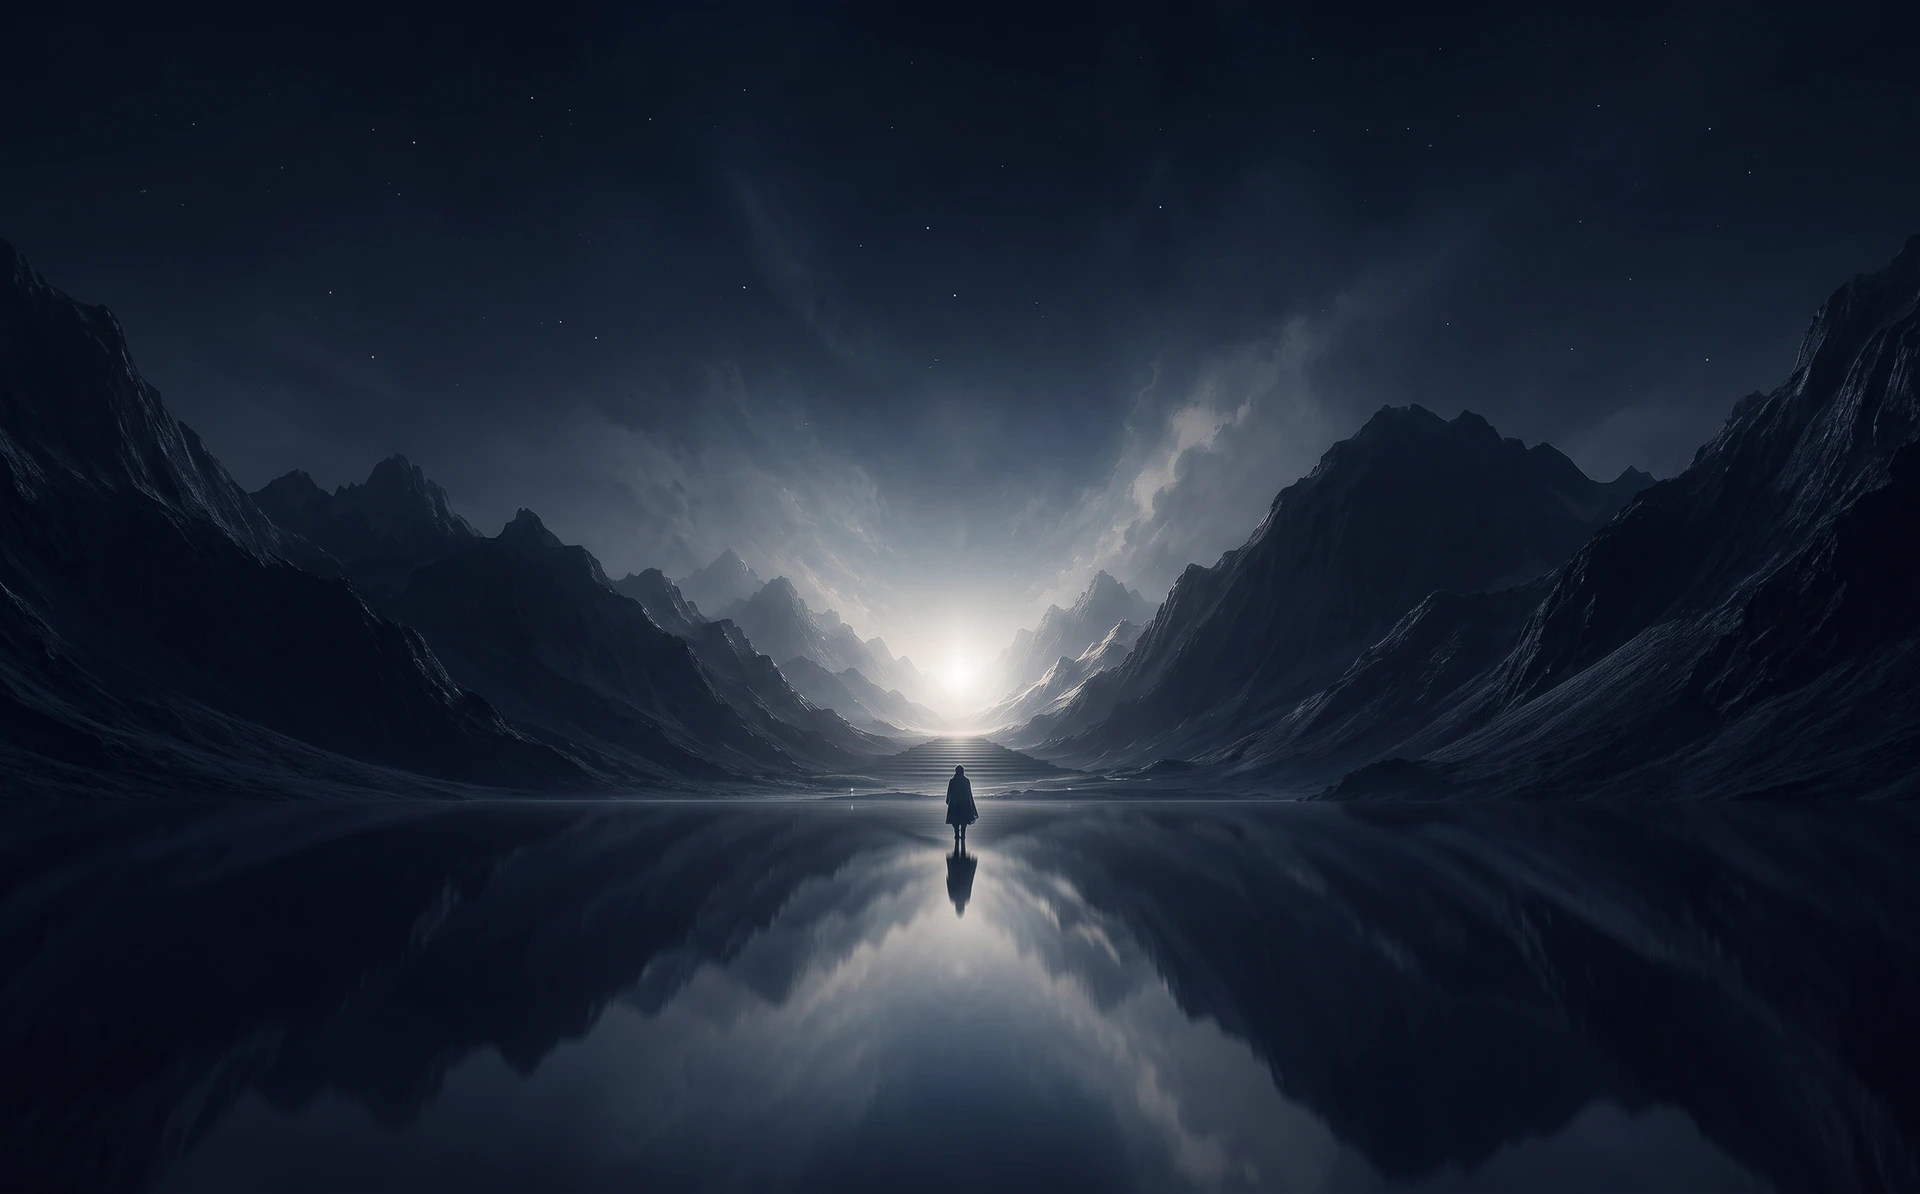
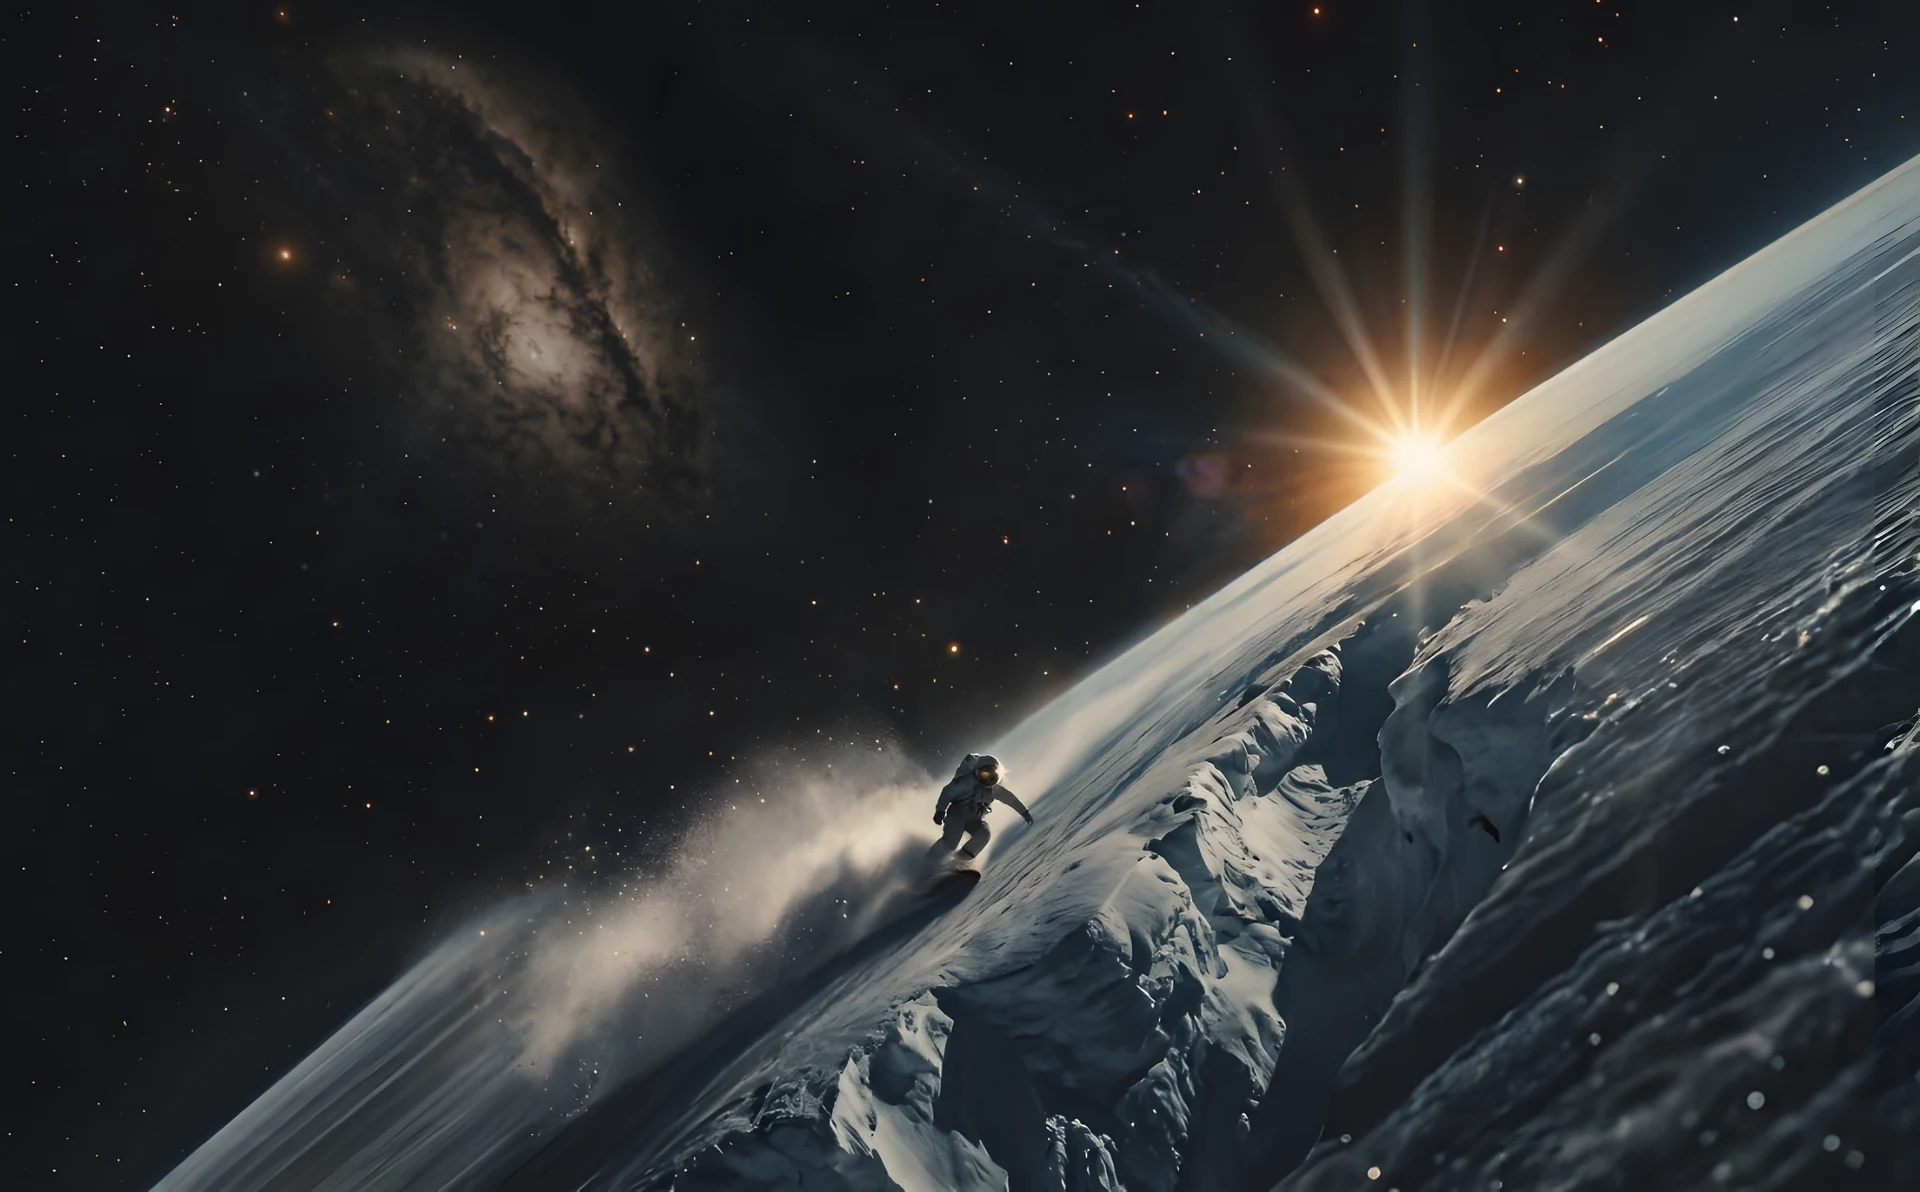
Replace the hero photo with a sharper version that holds up at full width.

diff --git a/index.html b/index.html
@@ -1950,14 +1950,14 @@
               <picture>
                 <source
                   type="image/webp"
-                  srcset="assets/hero-1920.webp?v=2 1920w, assets/hero.webp?v=2 2624w"
+                  srcset="assets/hero-1920.webp?v=4 1920w, assets/hero.webp?v=4 4096w"
                   sizes="100vw"
                 />
                 <img
-                  src="assets/hero.jpg?v=2"
+                  src="assets/hero.jpg?v=4"
                   alt=""
-                  width="2624"
-                  height="1632"
+                  width="4096"
+                  height="2544"
                   decoding="async"
                   fetchpriority="high"
                 />
